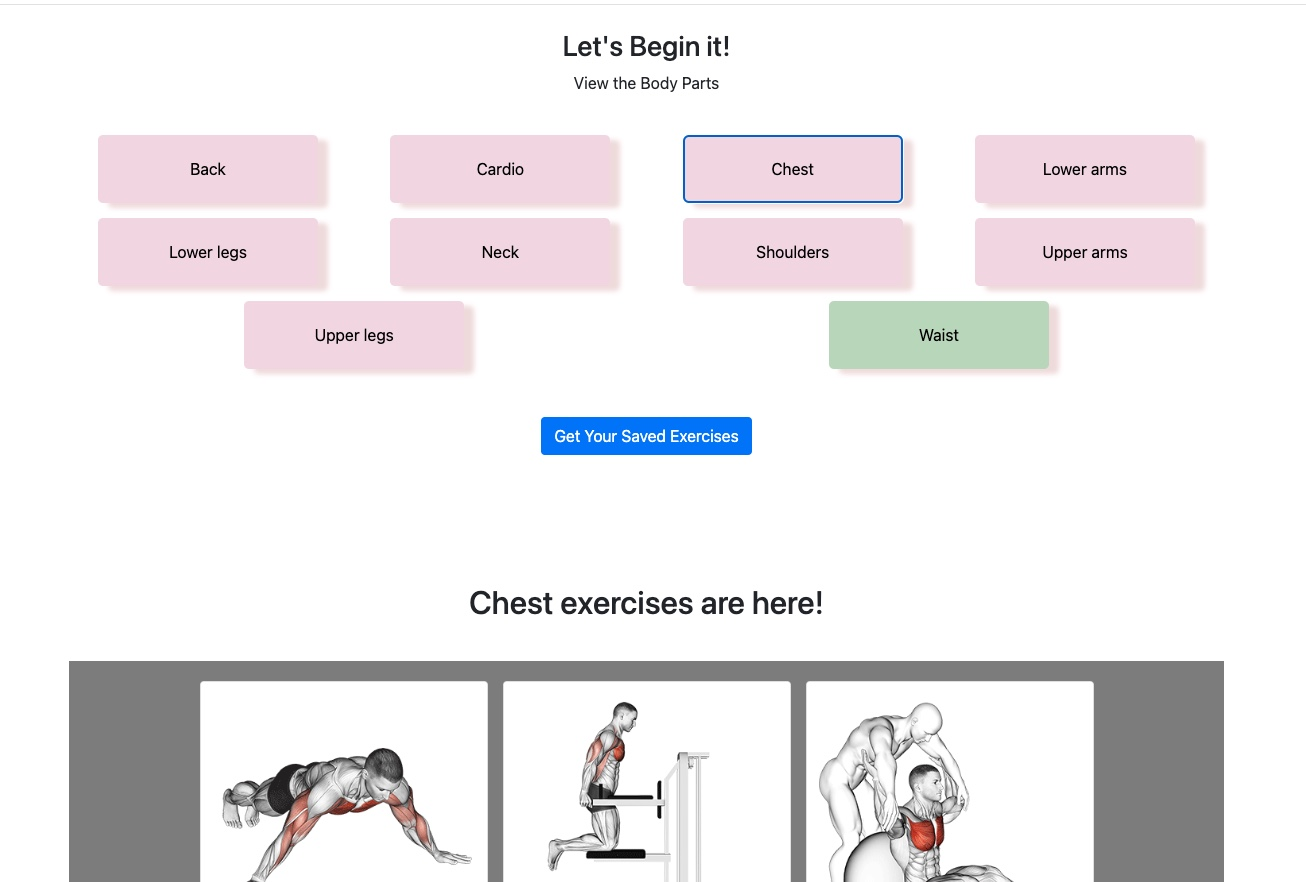
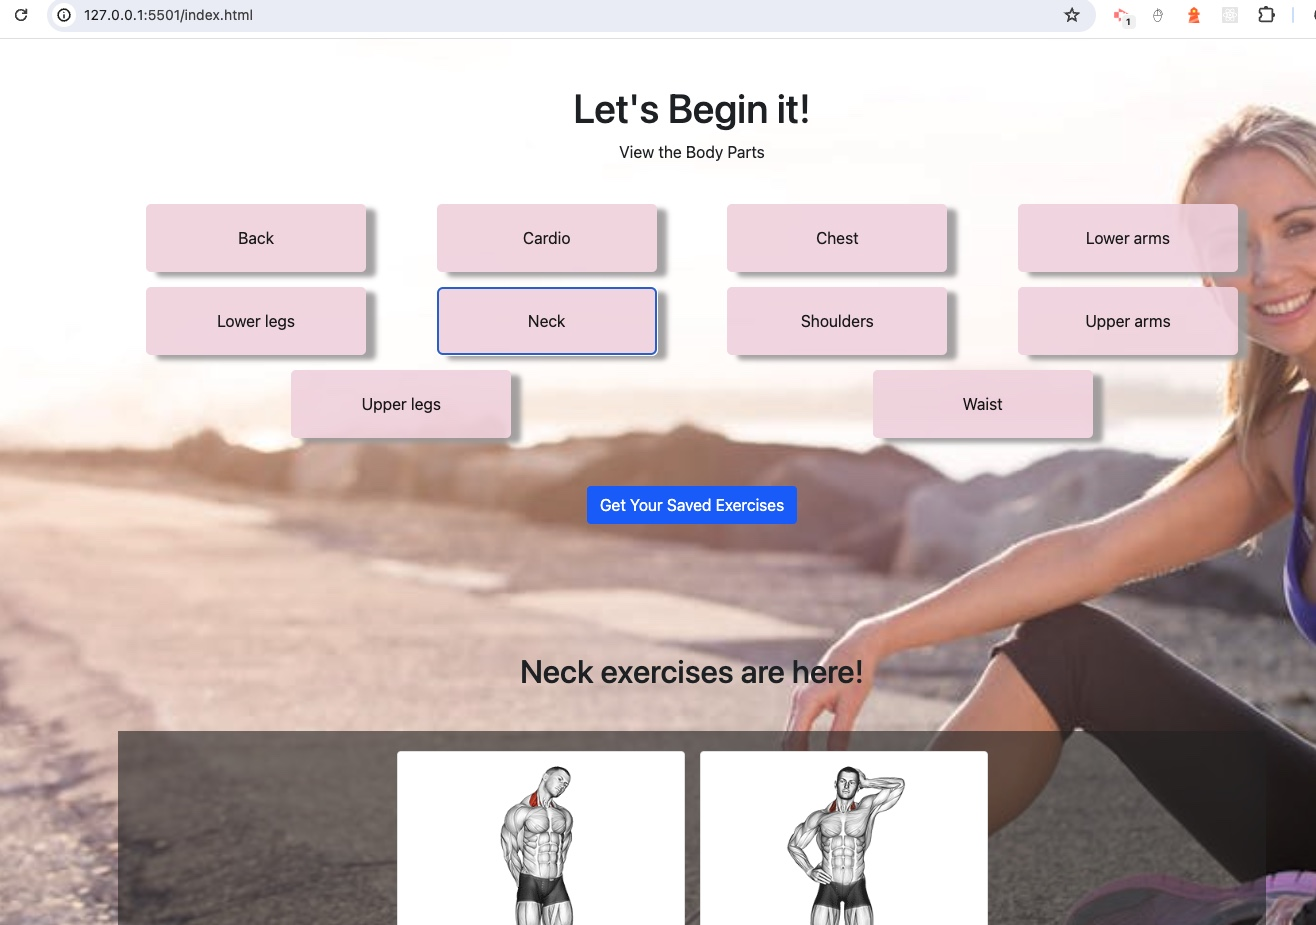
styles edited

diff --git a/styles.css b/styles.css
@@ -2,10 +2,12 @@
   margin: 0;
   padding: 0;
 }
-/* body{
-    background-image: url(./images/);
+body{
+    background-image: url(./images/pexels-photo-2036998.jpeg);
+    background-repeat: no-repeat;
     background-size: cover;
-} */
+    /* opacity: 0.9; */
+}
 header {
   background-color: rgb(129, 43, 43);
 }
@@ -57,11 +59,13 @@ select {
   border-radius: 5px;
   border: 2px solid transparent;
   background-color: rgb(240, 214, 225);
-  box-shadow: 10px 5px 5px rgb(236, 218, 218);
+  box-shadow: 10px 5px 5px rgb(163, 161, 161);
+  opacity: 0.9;
 }
 
 .btn-bodyParts:hover {
-  background-color: rgb(184, 214, 184);
+  background-color: rgb(146, 41, 46);
+  color: white;
 }
 
 #icon svg:hover {

diff --git a/index.html b/index.html
@@ -22,10 +22,10 @@
 
     </div>
 
-    <div class=" text-center my-3">
+    <div class=" text-center my-3 ">
       
-      <h3>Let's Begin it!</h3>
-      <p>View the Body Parts</p>
+      <h3 class="fs-1 ">Let's Begin it!</h3>
+      <p class="">View the Body Parts</p>
       <button id="view-button" class="btn  p-3 m-4 w-25">Click here!</button>
 
         <div id="container-bodyparts">
